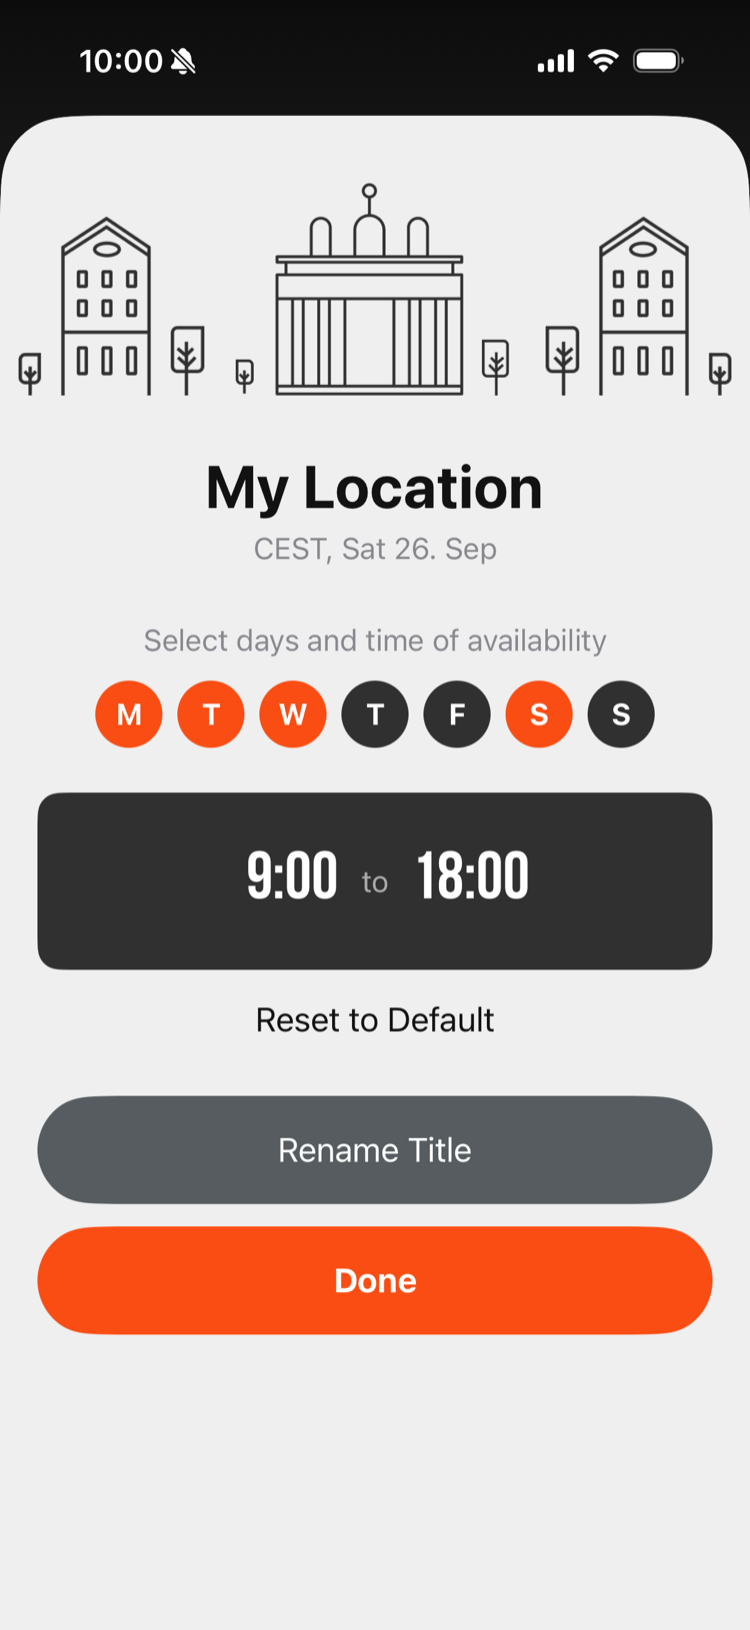
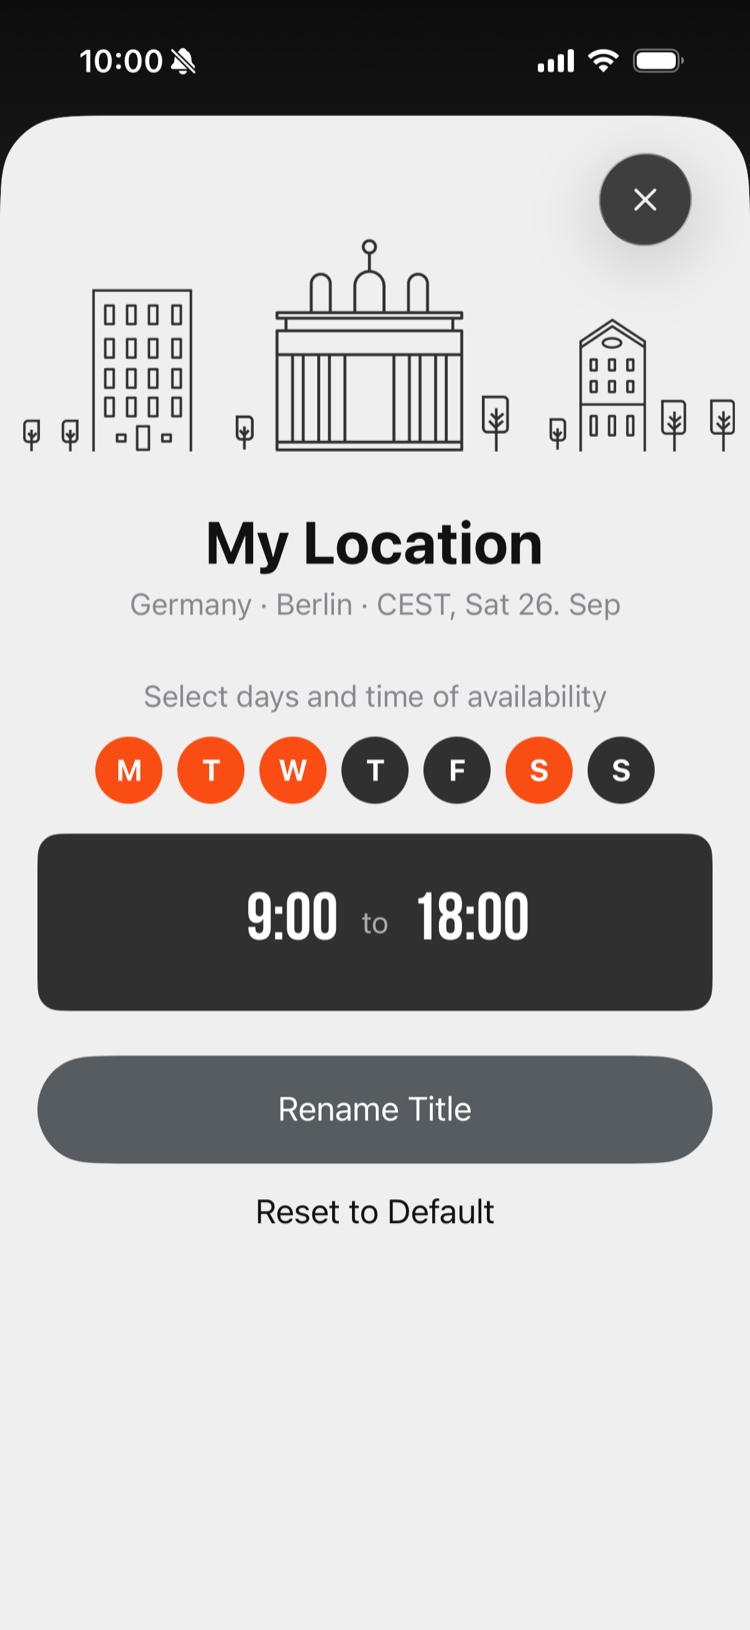
Add a Holidays section and refresh the app screenshots
- new "Holidays" feature section (images/screens/08-holiday.png), placed after
  Availability; Calendar and Organisation swap sides to keep the layout
  alternating; "Holidays" nav link
- screenshots recaptured from the 1.2.0 app (new city screen in 05-availability)
- sw.js: cache tempus-v10, caches the new image

Changed region(s): [[0.0307, 0.1227, 0.9507, 0.8282], [0.7053, 0.092, 0.9813, 0.2761], [0.0, 0.1227, 0.276, 0.2761]]

diff --git a/index.html b/index.html
@@ -919,6 +919,7 @@
   <ul>
     <li><a href="#screens">Screens</a></li>
     <li><a href="#mac">Mac</a></li>
+    <li><a href="#holidays">Holidays</a></li>
     <li><a href="#calendar">Calendar</a></li>
     <li><a href="#features">Features</a></li>
     <li><a href="https://apps.apple.com/app/id6813428126" class="nav-badge" aria-label="Download on the App Store"><svg xmlns="http://www.w3.org/2000/svg" width="119.66407" height="40" viewBox="0 0 119.66407 40" aria-hidden="true"><g><g><g><path d="M110.13477,0H9.53468c-.3667,0-.729,0-1.09473.002-.30615.002-.60986.00781-.91895.0127A13.21476,13.21476,0,0,0,5.5171.19141a6.66509,6.66509,0,0,0-1.90088.627A6.43779,6.43779,0,0,0,1.99757,1.99707,6.25844,6.25844,0,0,0,.81935,3.61816a6.60119,6.60119,0,0,0-.625,1.90332,12.993,12.993,0,0,0-.1792,2.002C.00587,7.83008.00489,8.1377,0,8.44434V31.5586c.00489.3105.00587.6113.01515.9219a12.99232,12.99232,0,0,0,.1792,2.0019,6.58756,6.58756,0,0,0,.625,1.9043A6.20778,6.20778,0,0,0,1.99757,38.001a6.27445,6.27445,0,0,0,1.61865,1.1787,6.70082,6.70082,0,0,0,1.90088.6308,13.45514,13.45514,0,0,0,2.0039.1768c.30909.0068.6128.0107.91895.0107C8.80567,40,9.168,40,9.53468,40H110.13477c.3594,0,.7246,0,1.084-.002.3047,0,.6172-.0039.9219-.0107a13.279,13.279,0,0,0,2-.1768,6.80432,6.80432,0,0,0,1.9082-.6308,6.27742,6.27742,0,0,0,1.6172-1.1787,6.39482,6.39482,0,0,0,1.1816-1.6143,6.60413,6.60413,0,0,0,.6191-1.9043,13.50643,13.50643,0,0,0,.1856-2.0019c.0039-.3106.0039-.6114.0039-.9219.0078-.3633.0078-.7246.0078-1.0938V9.53613c0-.36621,0-.72949-.0078-1.09179,0-.30664,0-.61426-.0039-.9209a13.5071,13.5071,0,0,0-.1856-2.002,6.6177,6.6177,0,0,0-.6191-1.90332,6.46619,6.46619,0,0,0-2.7988-2.7998,6.76754,6.76754,0,0,0-1.9082-.627,13.04394,13.04394,0,0,0-2-.17676c-.3047-.00488-.6172-.01074-.9219-.01269-.3594-.002-.7246-.002-1.084-.002Z"/><path d="M8.44483,39.125c-.30468,0-.602-.0039-.90429-.0107a12.68714,12.68714,0,0,1-1.86914-.1631,5.88381,5.88381,0,0,1-1.65674-.5479,5.40573,5.40573,0,0,1-1.397-1.0166,5.32082,5.32082,0,0,1-1.02051-1.3965,5.72186,5.72186,0,0,1-.543-1.6572,12.41351,12.41351,0,0,1-.1665-1.875c-.00634-.2109-.01464-.9131-.01464-.9131V8.44434S.88185,7.75293.8877,7.5498a12.37039,12.37039,0,0,1,.16553-1.87207,5.7555,5.7555,0,0,1,.54346-1.6621A5.37349,5.37349,0,0,1,2.61183,2.61768,5.56543,5.56543,0,0,1,4.01417,1.59521a5.82309,5.82309,0,0,1,1.65332-.54394A12.58589,12.58589,0,0,1,7.543.88721L8.44532.875H111.21387l.9131.0127a12.38493,12.38493,0,0,1,1.8584.16259,5.93833,5.93833,0,0,1,1.6709.54785,5.59374,5.59374,0,0,1,2.415,2.41993,5.76267,5.76267,0,0,1,.5352,1.64892,12.995,12.995,0,0,1,.1738,1.88721c.0029.2832.0029.5874.0029.89014.0079.375.0079.73193.0079,1.09179V30.4648c0,.3633,0,.7178-.0079,1.0752,0,.3252,0,.6231-.0039.9297a12.73126,12.73126,0,0,1-.1709,1.8535,5.739,5.739,0,0,1-.54,1.67,5.48029,5.48029,0,0,1-1.0156,1.3857,5.4129,5.4129,0,0,1-1.3994,1.0225,5.86168,5.86168,0,0,1-1.668.5498,12.54218,12.54218,0,0,1-1.8692.1631c-.2929.0068-.5996.0107-.8974.0107l-1.084.002Z" style="fill:#fff"/></g><g><g><g><path d="M24.99671,19.88935a5.14625,5.14625,0,0,1,2.45058-4.31771,5.26776,5.26776,0,0,0-4.15039-2.24376c-1.74624-.1833-3.43913,1.04492-4.329,1.04492-.90707,0-2.27713-1.02672-3.75247-.99637a5.52735,5.52735,0,0,0-4.65137,2.8367c-2.01111,3.482-.511,8.59939,1.41551,11.414.96388,1.37823,2.09037,2.91774,3.56438,2.86315,1.4424-.05983,1.98111-.91977,3.7222-.91977,1.72494,0,2.23035.91977,3.73427.88506,1.54777-.02512,2.52292-1.38435,3.453-2.77563a11.39931,11.39931,0,0,0,1.579-3.21589A4.97284,4.97284,0,0,1,24.99671,19.88935Z"/><path d="M22.15611,11.47681a5.06687,5.06687,0,0,0,1.159-3.62989,5.15524,5.15524,0,0,0-3.33555,1.72582,4.82131,4.82131,0,0,0-1.18934,3.4955A4.26259,4.26259,0,0,0,22.15611,11.47681Z"/></g></g><g><path d="M42.30178,27.13965h-4.7334l-1.13672,3.35645H34.42678l4.4834-12.418h2.083l4.4834,12.418H43.43752Zm-4.24316-1.54883h3.752L39.961,20.14355H39.9092Z"/><path d="M55.1592,25.96973c0,2.81348-1.50586,4.62109-3.77832,4.62109a3.0693,3.0693,0,0,1-2.84863-1.584h-.043v4.48438h-1.8584V21.44238h1.79883v1.50586h.03418a3.21162,3.21162,0,0,1,2.88281-1.60059C53.64455,21.34766,55.1592,23.16406,55.1592,25.96973Zm-1.91016,0c0-1.833-.94727-3.03809-2.39258-3.03809-1.41992,0-2.375,1.23047-2.375,3.03809,0,1.82422.95508,3.0459,2.375,3.0459C52.30178,29.01563,53.249,27.81934,53.249,25.96973Z"/><path d="M65.12453,25.96973c0,2.81348-1.50635,4.62109-3.77881,4.62109a3.0693,3.0693,0,0,1-2.84863-1.584h-.043v4.48438h-1.8584V21.44238h1.79883v1.50586h.03418a3.21162,3.21162,0,0,1,2.88281-1.60059C63.6094,21.34766,65.12453,23.16406,65.12453,25.96973Zm-1.91064,0c0-1.833-.94727-3.03809-2.39258-3.03809-1.41992,0-2.375,1.23047-2.375,3.03809,0,1.82422.95508,3.0459,2.375,3.0459C62.26662,29.01563,63.21389,27.81934,63.21389,25.96973Z"/><path d="M71.70949,27.03613c.1377,1.23145,1.334,2.04,2.96875,2.04,1.56641,0,2.69336-.80859,2.69336-1.91895,0-.96387-.67969-1.541-2.28906-1.93652l-1.60937-.3877c-2.28027-.55078-3.33887-1.61719-3.33887-3.34766,0-2.14258,1.86719-3.61426,4.51758-3.61426,2.625,0,4.42383,1.47168,4.48438,3.61426h-1.876c-.1123-1.23926-1.13672-1.9873-2.63379-1.9873s-2.52148.75684-2.52148,1.8584c0,.87793.6543,1.39453,2.25488,1.79l1.36816.33594c2.54785.60254,3.60547,1.626,3.60547,3.44238,0,2.32324-1.84961,3.77832-4.793,3.77832-2.75391,0-4.61328-1.4209-4.7334-3.667Z"/><path d="M83.34621,19.2998v2.14258h1.72168v1.47168H83.34621v4.99121c0,.77539.34473,1.13672,1.10156,1.13672a5.80752,5.80752,0,0,0,.61133-.043v1.46289a5.10351,5.10351,0,0,1-1.03223.08594c-1.833,0-2.54785-.68848-2.54785-2.44434V22.91406H80.16262V21.44238H81.479V19.2998Z"/><path d="M86.064,25.96973c0-2.84863,1.67773-4.63867,4.29395-4.63867,2.625,0,4.29492,1.79,4.29492,4.63867,0,2.85645-1.66113,4.63867-4.29492,4.63867C87.72512,30.6084,86.064,28.82617,86.064,25.96973Zm6.69531,0c0-1.9541-.89551-3.10742-2.40137-3.10742s-2.40137,1.16211-2.40137,3.10742c0,1.96191.89551,3.10645,2.40137,3.10645S92.7593,27.93164,92.7593,25.96973Z"/><path d="M96.18508,21.44238h1.77246v1.541h.043a2.1594,2.1594,0,0,1,2.17773-1.63574,2.86616,2.86616,0,0,1,.63672.06934v1.73828a2.59794,2.59794,0,0,0-.835-.1123,1.87264,1.87264,0,0,0-1.93652,2.083v5.37012h-1.8584Z"/><path d="M109.38332,27.83691c-.25,1.64355-1.85059,2.77148-3.89844,2.77148-2.63379,0-4.26855-1.76465-4.26855-4.5957,0-2.83984,1.64355-4.68164,4.19043-4.68164,2.50488,0,4.08008,1.7207,4.08008,4.46582v.63672h-6.39453v.1123a2.358,2.358,0,0,0,2.43555,2.56445,2.04834,2.04834,0,0,0,2.09082-1.27344Zm-6.28223-2.70215h4.52637a2.1773,2.1773,0,0,0-2.2207-2.29785A2.292,2.292,0,0,0,103.10109,25.13477Z"/></g></g><g><g><path d="M37.82619,8.731a2.63964,2.63964,0,0,1,2.80762,2.96484c0,1.90625-1.03027,3.002-2.80762,3.002H35.67092V8.731Zm-1.22852,5.123h1.125a1.87588,1.87588,0,0,0,1.96777-2.146,1.881,1.881,0,0,0-1.96777-2.13379h-1.125Z"/><path d="M41.68068,12.44434a2.13323,2.13323,0,1,1,4.24707,0,2.13358,2.13358,0,1,1-4.24707,0Zm3.333,0c0-.97607-.43848-1.54687-1.208-1.54687-.77246,0-1.207.5708-1.207,1.54688,0,.98389.43457,1.55029,1.207,1.55029C44.57522,13.99463,45.01369,13.42432,45.01369,12.44434Z"/><path d="M51.57326,14.69775h-.92187l-.93066-3.31641h-.07031l-.92676,3.31641h-.91309l-1.24121-4.50293h.90137l.80664,3.436h.06641l.92578-3.436h.85254l.92578,3.436h.07031l.80273-3.436h.88867Z"/><path d="M53.85354,10.19482H54.709v.71533h.06641a1.348,1.348,0,0,1,1.34375-.80225,1.46456,1.46456,0,0,1,1.55859,1.6748v2.915h-.88867V12.00586c0-.72363-.31445-1.0835-.97168-1.0835a1.03294,1.03294,0,0,0-1.0752,1.14111v2.63428h-.88867Z"/><path d="M59.09377,8.437h.88867v6.26074h-.88867Z"/><path d="M61.21779,12.44434a2.13346,2.13346,0,1,1,4.24756,0,2.1338,2.1338,0,1,1-4.24756,0Zm3.333,0c0-.97607-.43848-1.54687-1.208-1.54687-.77246,0-1.207.5708-1.207,1.54688,0,.98389.43457,1.55029,1.207,1.55029C64.11232,13.99463,64.5508,13.42432,64.5508,12.44434Z"/><path d="M66.4009,13.42432c0-.81055.60352-1.27783,1.6748-1.34424l1.21973-.07031v-.38867c0-.47559-.31445-.74414-.92187-.74414-.49609,0-.83984.18213-.93848.50049h-.86035c.09082-.77344.81836-1.26953,1.83984-1.26953,1.12891,0,1.76563.562,1.76563,1.51318v3.07666h-.85547v-.63281h-.07031a1.515,1.515,0,0,1-1.35254.707A1.36026,1.36026,0,0,1,66.4009,13.42432Zm2.89453-.38477v-.37646l-1.09961.07031c-.62012.0415-.90137.25244-.90137.64941,0,.40527.35156.64111.835.64111A1.0615,1.0615,0,0,0,69.29543,13.03955Z"/><path d="M71.34816,12.44434c0-1.42285.73145-2.32422,1.86914-2.32422a1.484,1.484,0,0,1,1.38086.79h.06641V8.437h.88867v6.26074h-.85156v-.71143h-.07031a1.56284,1.56284,0,0,1-1.41406.78564C72.0718,14.772,71.34816,13.87061,71.34816,12.44434Zm.918,0c0,.95508.4502,1.52979,1.20313,1.52979.749,0,1.21191-.583,1.21191-1.52588,0-.93848-.46777-1.52979-1.21191-1.52979C72.72121,10.91846,72.26613,11.49707,72.26613,12.44434Z"/><path d="M79.23,12.44434a2.13323,2.13323,0,1,1,4.24707,0,2.13358,2.13358,0,1,1-4.24707,0Zm3.333,0c0-.97607-.43848-1.54687-1.208-1.54687-.77246,0-1.207.5708-1.207,1.54688,0,.98389.43457,1.55029,1.207,1.55029C82.12453,13.99463,82.563,13.42432,82.563,12.44434Z"/><path d="M84.66945,10.19482h.85547v.71533h.06641a1.348,1.348,0,0,1,1.34375-.80225,1.46456,1.46456,0,0,1,1.55859,1.6748v2.915H87.605V12.00586c0-.72363-.31445-1.0835-.97168-1.0835a1.03294,1.03294,0,0,0-1.0752,1.14111v2.63428h-.88867Z"/><path d="M93.51516,9.07373v1.1416h.97559v.74854h-.97559V13.2793c0,.47168.19434.67822.63672.67822a2.96657,2.96657,0,0,0,.33887-.02051v.74023a2.9155,2.9155,0,0,1-.4834.04541c-.98828,0-1.38184-.34766-1.38184-1.21582v-2.543h-.71484v-.74854h.71484V9.07373Z"/><path d="M95.70461,8.437h.88086v2.48145h.07031a1.3856,1.3856,0,0,1,1.373-.80664,1.48339,1.48339,0,0,1,1.55078,1.67871v2.90723H98.69v-2.688c0-.71924-.335-1.0835-.96289-1.0835a1.05194,1.05194,0,0,0-1.13379,1.1416v2.62988h-.88867Z"/><path d="M104.76125,13.48193a1.828,1.828,0,0,1-1.95117,1.30273A2.04531,2.04531,0,0,1,100.73,12.46045a2.07685,2.07685,0,0,1,2.07617-2.35254c1.25293,0,2.00879.856,2.00879,2.27V12.688h-3.17969v.0498a1.1902,1.1902,0,0,0,1.19922,1.29,1.07934,1.07934,0,0,0,1.07129-.5459Zm-3.126-1.45117h2.27441a1.08647,1.08647,0,0,0-1.1084-1.1665A1.15162,1.15162,0,0,0,101.63527,12.03076Z"/></g></g></g></g></svg></a></li>
@@ -1052,9 +1053,36 @@
 
 <hr class="divider" />
 
-<!-- FEATURE: TIME PICKER -->
-<div id="calendar" style="background: var(--bg-2);">
+<!-- FEATURE: HOLIDAYS -->
+<div id="holidays" style="background: var(--bg-2);">
   <div class="feature-row reverse">
+    <div class="feature-text">
+      <div class="eyebrow" data-animate>Holidays</div>
+      <h2>See who's off,<br/>before you<br/><span class="accent">book.</span></h2>
+      <p class="lead">
+        A <strong>HOLIDAY</strong> badge appears on any city that's on a public
+        holiday, so you never plan a call on someone's day off. Every city lists
+        its upcoming holidays, for 240+ countries &mdash; Diwali and Eid
+        included &mdash; and Germany, the US, Canada and Australia count their
+        regional holidays too. Create an event on a day off and we ask first.
+      </p>
+      <div class="feature-pills">
+        <span class="pill"><span class="pill-dot"></span>HOLIDAY badge on every card</span>
+        <span class="pill"><span class="pill-dot"></span>Upcoming holidays per city</span>
+        <span class="pill"><span class="pill-dot"></span>Warning before you schedule</span>
+      </div>
+    </div>
+    <div class="feature-visual">
+      <img src="images/screens/08-holiday.png" alt="Brad's Team and Austin marked HOLIDAY on a day off in the US, while Berlin is at work" />
+    </div>
+  </div>
+</div>
+
+<hr class="divider" />
+
+<!-- FEATURE: TIME PICKER -->
+<div id="calendar">
+  <div class="feature-row">
     <div class="feature-text">
       <div class="eyebrow" data-animate>Calendar</div>
       <h2>Your calendar,<br/>on every<br/><span class="accent">clock.</span></h2>
@@ -1078,8 +1106,8 @@
 <hr class="divider" />
 
 <!-- FEATURE: EDIT LIST -->
-<div>
-  <div class="feature-row">
+<div style="background: var(--bg-2);">
+  <div class="feature-row reverse">
     <div class="feature-text">
       <div class="eyebrow" data-animate>Organisation</div>
       <h2>Your list,<br/>your<br/><span class="accent">order.</span></h2>

diff --git a/sw.js b/sw.js
@@ -1,4 +1,4 @@
-const CACHE = 'tempus-v9';
+const CACHE = 'tempus-v10';
 /* Resolve paths relative to this script so GitHub Pages project URLs (/repo/) work. */
 const base = new URL('./', self.location.href).href;
 const ASSETS = [
@@ -11,6 +11,7 @@ const ASSETS = [
   new URL('images/screens/05-availability.png', base).href,
   new URL('images/screens/06-swipe-actions.png', base).href,
   new URL('images/screens/07-calendar.png', base).href,
+  new URL('images/screens/08-holiday.png', base).href,
   new URL('images/mac/menu-bar.png', base).href,
 ];
 
